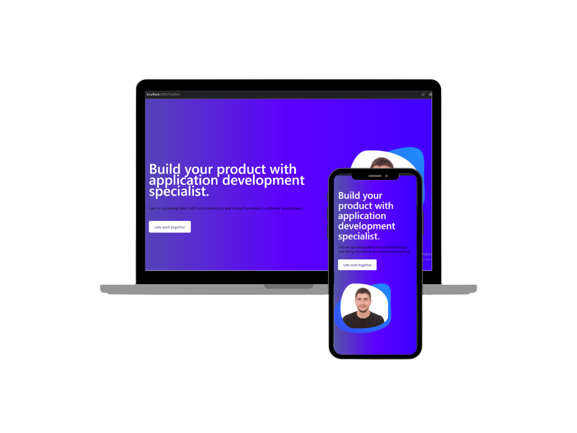
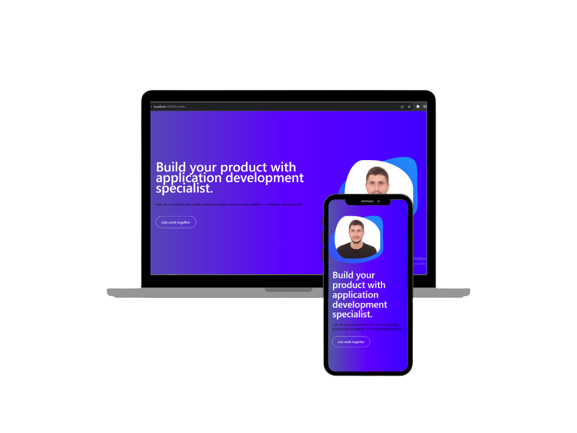
changed mainpage

Changed region(s): [[0.156, 0.1801, 0.8423, 0.8707]]

diff --git a/src/components/main/mainpage.css b/src/components/main/mainpage.css
@@ -9,12 +9,16 @@
     height: 100%;;
     margin: auto;
     display: flex;
+    justify-content: center;
     align-items: center;
+    
+    
 }
 .mainpage-content .content{
     width:100%;
+    
     /* line-height: 4rem; */
-    padding-top: 8%;
+    /* padding-top: 8%; */
 }
 
 .mainpage-content span{
@@ -33,9 +37,10 @@
 
 .mainpage-content a{
     padding:15px 25px;
-    color: rgb(19, 0, 128);
-    background-color: white;
-    border-radius: 5px;
+    color: white;
+    background-color: none;
+    border: 1px solid white;
+    border-radius: 50px;
     text-decoration: none;
     margin-top: 10%;
 }
@@ -44,9 +49,10 @@
     width: 350px;
 
     height: 300px;
-    border-radius:  30% 70% 60% 30% / 60% 50% 30% ;
+    
     /* margin-right: 2%; */
     position: relative;
+    
     
 }
 .portfolio-img .img{
@@ -70,9 +76,9 @@
 @media screen and (max-width: 567px) {
     .mainpage-content{
         width: 90%;
-        flex-direction: column;
-       
-        padding-top: 10%;
+        flex-direction: column-reverse;
+        justify-content: left;
+        padding-top: 0%;
     }
     .mainpage-content span{
         font-size: 45px;
@@ -101,11 +107,12 @@
     }
     .mainpage-content a{
         padding:15px 25px;
-        color: rgb(19, 0, 128);
-        background-color: white;
-        border-radius: 5px;
-        text-decoration: none;
-        margin-top: 10%;
+    color: white;
+    background-color: none;
+    border: 1px solid white;
+    border-radius: 50px;
+    text-decoration: none;
+    margin-top: 10%;
        
     }
 }

diff --git a/src/components/brief/brief.css b/src/components/brief/brief.css
@@ -22,10 +22,14 @@
     gap:10px;
     font-size: 50px;
     margin-top: 5%;
-    color: blue;
+    /* color: blue; */
+    
+    color:rgb(36, 164, 72) ;
 }
 
 .code-quality h1{
+    /* background-color: rgb(36, 164, 72); */
+    
     background-image: linear-gradient(to right, rgb(84, 84, 167),rgb(93, 0, 255),rgb(60, 0, 255));
     background-clip: text;
     color: transparent;
@@ -45,7 +49,8 @@
     justify-content: space-between;
     flex-direction: column;
     align-items: center;
-    
+    background-color: rgb(36, 164, 72);
+
    
 
 }
@@ -90,9 +95,7 @@
         background-image: linear-gradient(to right, rgb(84, 84, 167),rgb(93, 0, 255),rgb(60, 0, 255));
         padding-bottom: 15%;
         margin:0px 10px;
-        /* border-top-right-radius: 100px;
-        border-bottom-right-radius: 100px; */
-
+       
     }
     .code-quality h1{
         color: white;

diff --git a/src/components/brief/Brief.js b/src/components/brief/Brief.js
@@ -1,7 +1,9 @@
 import React from 'react'
 import './brief.css'
 import {FaReact,FaJava, FaSass, FaLess} from 'react-icons/fa'
-import {SiCsharp} from 'react-icons/si'
+// import {SiCsharp} from 'react-icons/si'
+import {BiLogoFlutter} from 'react-icons/bi'
+
 const Brief = () => {
 
     const brief = [
@@ -23,7 +25,7 @@ const Brief = () => {
                     <p>{item.p}</p>
                     {index === 0 ? <div><FaSass/><FaLess/></div> : <div><FaReact/>
                     
-                    <SiCsharp/>
+                    <BiLogoFlutter/>
                     <FaJava/></div>}
                 </div>
             </div>
